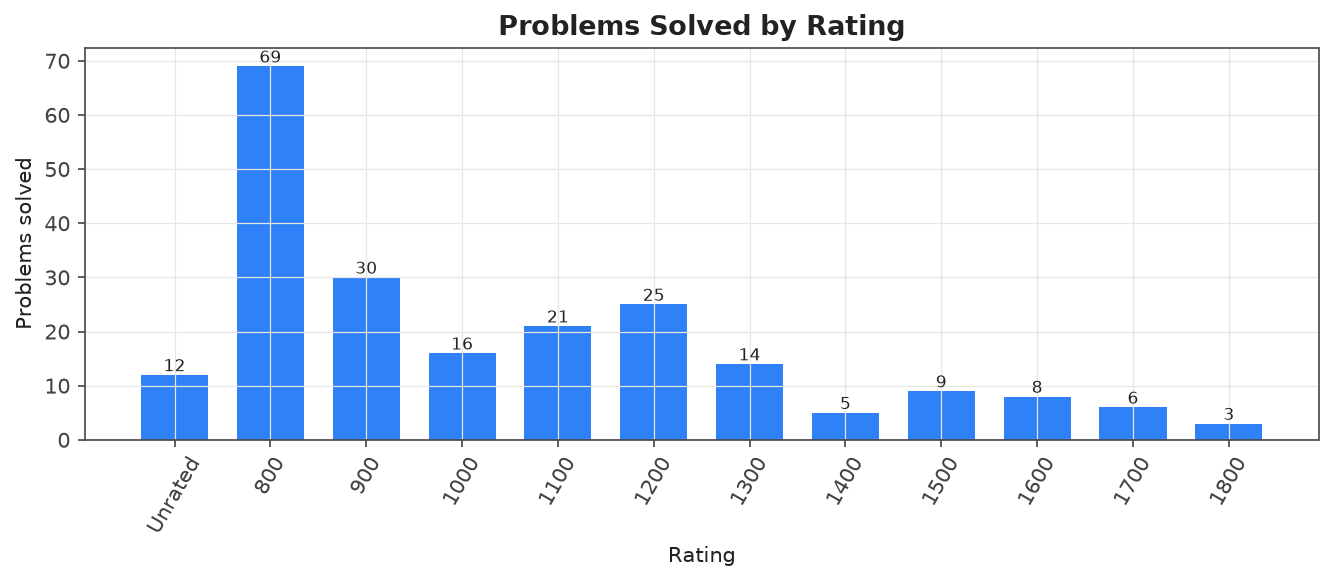
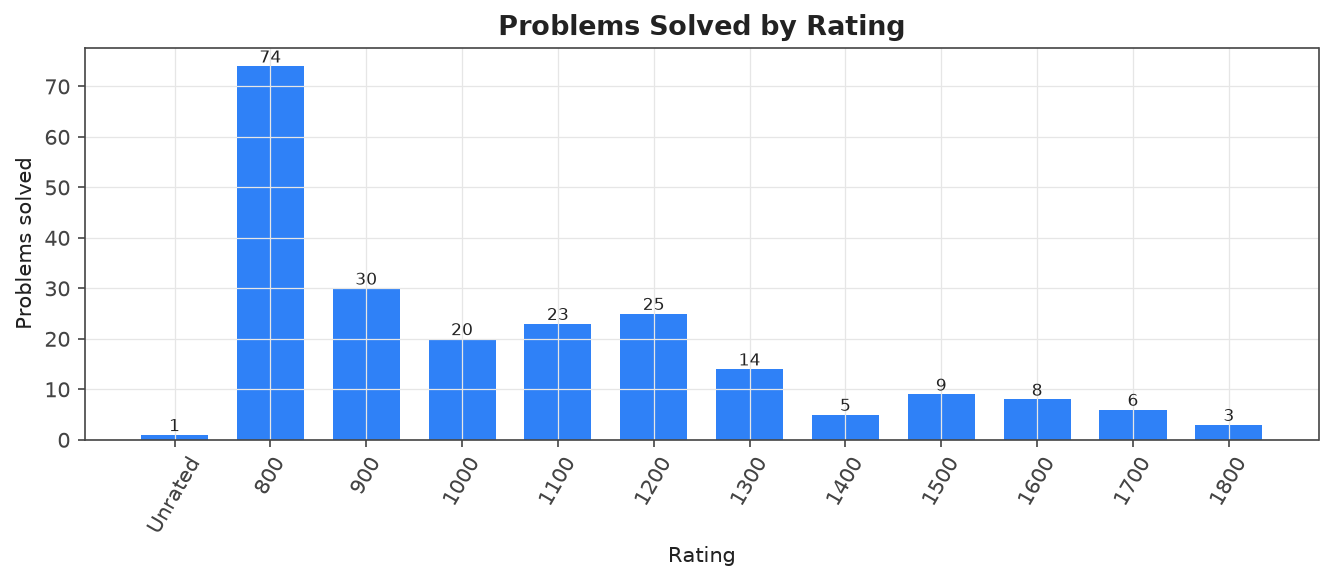
Sync: refresh analytics (rating/streak update, no new problems)

diff --git a/README.md b/README.md
@@ -37,10 +37,10 @@ Auto-generated archive of accepted Codeforces submissions for **[om_sharma_](htt
 
 | Rating | Count |
 |---|---|
-| 0800 | 69 |
+| 0800 | 74 |
 | 0900 | 30 |
-| 1000 | 16 |
-| 1100 | 21 |
+| 1000 | 20 |
+| 1100 | 23 |
 | 1200 | 25 |
 | 1300 | 14 |
 | 1400 | 5 |
@@ -48,7 +48,7 @@ Auto-generated archive of accepted Codeforces submissions for **[om_sharma_](htt
 | 1600 | 8 |
 | 1700 | 6 |
 | 1800 | 3 |
-| Unrated | 12 |
+| Unrated | 1 |
 
 ### By tag
 
@@ -88,17 +88,6 @@ Auto-generated archive of accepted Codeforces submissions for **[om_sharma_](htt
 
 | # | Problem | Rating | Tags | Code | Link |
 |---|---|---|---|---|---|
-| 2261A | [Hey, It's Me, Souvlakity](problems/games/Unrated_2261A-Hey-Its-Me-Souvlakity) | ? | `games`, `math` | — | [CF](https://codeforces.com/contest/2261/problem/A) |
-| 2261C | [I Know About a Million Things](problems/games/Unrated_2261C-I-Know-About-a-Million-Things) | ? | `games`, `math` | — | [CF](https://codeforces.com/contest/2261/problem/C) |
-| 2261B | [What's the Capital of France?](problems/bitmasks/Unrated_2261B-Whats-the-Capital-of-France) | ? | `bitmasks`, `greedy`, `math` | — | [CF](https://codeforces.com/contest/2261/problem/B) |
-| 2271A | [Robot Odd Moves](problems/constructive-algorithms/Unrated_2271A-Robot-Odd-Moves) | ? | `constructive algorithms`, `math` | — | [CF](https://codeforces.com/contest/2271/problem/A) |
-| 2271B | [MEX Game](problems/games/Unrated_2271B-MEX-Game) | ? | `games` | — | [CF](https://codeforces.com/contest/2271/problem/B) |
-| 2275B | [Did Not Go to Print](problems/data-structures/Unrated_2275B-Did-Not-Go-to-Print) | ? | `data structures`, `implementation` | — | [CF](https://codeforces.com/contest/2275/problem/B) |
-| 2275A | [In Search of Convenience](problems/geometry/Unrated_2275A-In-Search-of-Convenience) | ? | `geometry`, `implementation` | — | [CF](https://codeforces.com/contest/2275/problem/A) |
-| 2275C | [Unrequited Love](problems/brute-force/Unrated_2275C-Unrequited-Love) | ? | `brute force`, `data structures` | — | [CF](https://codeforces.com/contest/2275/problem/C) |
-| 2276A | [Perfect Sandwiches](problems/greedy/Unrated_2276A-Perfect-Sandwiches) | ? | `greedy`, `math` | — | [CF](https://codeforces.com/contest/2276/problem/A) |
-| 2276B | [Replace and Compress](problems/implementation/Unrated_2276B-Replace-and-Compress) | ? | `implementation`, `strings` | — | [CF](https://codeforces.com/contest/2276/problem/B) |
-| 2276C | [Subarrays](problems/math/Unrated_2276C-Subarrays) | ? | `math`, `number theory` | — | [CF](https://codeforces.com/contest/2276/problem/C) |
 | 105669I | [Partition](problems/untagged/Unrated_105669I-Partition) | ? |  | — | [CF](https://codeforces.com/contest/105669/problem/I) |
 | 4A | [Watermelon](problems/brute-force/0800_4A-Watermelon) | 800 | `brute force`, `math` | — | [CF](https://codeforces.com/contest/4/problem/A) |
 | 14A | [Letter](problems/implementation/0800_14A-Letter) | 800 | `implementation` | — | [CF](https://codeforces.com/contest/14/problem/A) |
@@ -166,9 +155,14 @@ Auto-generated archive of accepted Codeforces submissions for **[om_sharma_](htt
 | 2257B | [Gigantomachy](problems/math/0800_2257B-Gigantomachy) | 800 | `math` | — | [CF](https://codeforces.com/contest/2257/problem/B) |
 | 2258A | [Odd Eraser](problems/math/0800_2258A-Odd-Eraser) | 800 | `math` | — | [CF](https://codeforces.com/contest/2258/problem/A) |
 | 2260A | [Monocarp's Contest](problems/implementation/0800_2260A-Monocarps-Contest) | 800 | `implementation` | — | [CF](https://codeforces.com/contest/2260/problem/A) |
+| 2261A | [Hey, It's Me, Souvlakity](problems/games/0800_2261A-Hey-Its-Me-Souvlakity) | 800 | `games`, `math` | — | [CF](https://codeforces.com/contest/2261/problem/A) |
 | 2263A | [Min Max Game](problems/games/0800_2263A-Min-Max-Game) | 800 | `games` | — | [CF](https://codeforces.com/contest/2263/problem/A) |
 | 2267A | [Turn Into a Palindrome](problems/greedy/0800_2267A-Turn-Into-a-Palindrome) | 800 | `greedy`, `strings` | — | [CF](https://codeforces.com/contest/2267/problem/A) |
 | 2267B | [Fashionable Array](problems/brute-force/0800_2267B-Fashionable-Array) | 800 | `brute force`, `constructive algorithms`, `sortings` | — | [CF](https://codeforces.com/contest/2267/problem/B) |
+| 2271A | [Robot Odd Moves](problems/constructive-algorithms/0800_2271A-Robot-Odd-Moves) | 800 | `constructive algorithms`, `math` | — | [CF](https://codeforces.com/contest/2271/problem/A) |
+| 2275B | [Did Not Go to Print](problems/data-structures/0800_2275B-Did-Not-Go-to-Print) | 800 | `data structures`, `implementation` | — | [CF](https://codeforces.com/contest/2275/problem/B) |
+| 2275A | [In Search of Convenience](problems/geometry/0800_2275A-In-Search-of-Convenience) | 800 | `geometry`, `implementation` | — | [CF](https://codeforces.com/contest/2275/problem/A) |
+| 2276A | [Perfect Sandwiches](problems/greedy/0800_2276A-Perfect-Sandwiches) | 800 | `greedy`, `math` | — | [CF](https://codeforces.com/contest/2276/problem/A) |
 | 337A | [Puzzles](problems/greedy/0900_337A-Puzzles) | 900 | `greedy` | — | [CF](https://codeforces.com/contest/337/problem/A) |
 | 1374B | [Multiply by 2, divide by 6](problems/math/0900_1374B-Multiply-by-2-divide-by-6) | 900 | `math` | — | [CF](https://codeforces.com/contest/1374/problem/B) |
 | 1440B | [Sum of Medians](problems/greedy/0900_1440B-Sum-of-Medians) | 900 | `greedy`, `math` | — | [CF](https://codeforces.com/contest/1440/problem/B) |
@@ -215,6 +209,10 @@ Auto-generated archive of accepted Codeforces submissions for **[om_sharma_](htt
 | 2242B | [Predominant Frequency Division](problems/data-structures/1000_2242B-Predominant-Frequency-Division) | 1000 | `data structures`, `greedy`, `implementation`, `math` | — | [CF](https://codeforces.com/contest/2242/problem/B) |
 | 2254C1 | [Marenol (easy version)](problems/greedy/1000_2254C1-Marenol-easy-version) | 1000 | `greedy` | — | [CF](https://codeforces.com/contest/2254/problem/C1) |
 | 2256B | [Domino Tiles](problems/implementation/1000_2256B-Domino-Tiles) | 1000 | `implementation`, `math` | — | [CF](https://codeforces.com/contest/2256/problem/B) |
+| 2261C | [I Know About a Million Things](problems/games/1000_2261C-I-Know-About-a-Million-Things) | 1000 | `games`, `math` | — | [CF](https://codeforces.com/contest/2261/problem/C) |
+| 2271B | [MEX Game](problems/games/1000_2271B-MEX-Game) | 1000 | `games` | — | [CF](https://codeforces.com/contest/2271/problem/B) |
+| 2275C | [Unrequited Love](problems/brute-force/1000_2275C-Unrequited-Love) | 1000 | `brute force`, `data structures` | — | [CF](https://codeforces.com/contest/2275/problem/C) |
+| 2276B | [Replace and Compress](problems/implementation/1000_2276B-Replace-and-Compress) | 1000 | `implementation`, `strings` | — | [CF](https://codeforces.com/contest/2276/problem/B) |
 | 252A | [Little Xor](problems/brute-force/1100_252A-Little-Xor) | 1100 | `brute force`, `implementation` | — | [CF](https://codeforces.com/contest/252/problem/A) |
 | 919B | [Perfect Number](problems/binary-search/1100_919B-Perfect-Number) | 1100 | `binary search`, `brute force`, `dp`, `implementation`, `number theory` | — | [CF](https://codeforces.com/contest/919/problem/B) |
 | 1327A | [Sum of Odd Integers](problems/math/1100_1327A-Sum-of-Odd-Integers) | 1100 | `math` | — | [CF](https://codeforces.com/contest/1327/problem/A) |
@@ -236,6 +234,8 @@ Auto-generated archive of accepted Codeforces submissions for **[om_sharma_](htt
 | 2247C | [Inversion of a Subsequence](problems/greedy/1100_2247C-Inversion-of-a-Subsequence) | 1100 | `greedy`, `math` | — | [CF](https://codeforces.com/contest/2247/problem/C) |
 | 2252B | [Always Changing](problems/dp/1100_2252B-Always-Changing) | 1100 | `dp`, `greedy`, `math`, `strings` | — | [CF](https://codeforces.com/contest/2252/problem/B) |
 | 2253B | [Hypercarp and the Control Panel](problems/brute-force/1100_2253B-Hypercarp-and-the-Control-Panel) | 1100 | `brute force`, `data structures`, `two pointers` | — | [CF](https://codeforces.com/contest/2253/problem/B) |
+| 2261B | [What's the Capital of France?](problems/bitmasks/1100_2261B-Whats-the-Capital-of-France) | 1100 | `bitmasks`, `greedy`, `math` | — | [CF](https://codeforces.com/contest/2261/problem/B) |
+| 2276C | [Subarrays](problems/math/1100_2276C-Subarrays) | 1100 | `math`, `number theory` | — | [CF](https://codeforces.com/contest/2276/problem/C) |
 | 4B | [Before an Exam](problems/constructive-algorithms/1200_4B-Before-an-Exam) | 1200 | `constructive algorithms`, `greedy` | — | [CF](https://codeforces.com/contest/4/problem/B) |
 | 101A | [Homework](problems/greedy/1200_101A-Homework) | 1200 | `greedy` | — | [CF](https://codeforces.com/contest/101/problem/A) |
 | 961B | [Lecture Sleep](problems/data-structures/1200_961B-Lecture-Sleep) | 1200 | `data structures`, `dp`, `implementation`, `two pointers` | — | [CF](https://codeforces.com/contest/961/problem/B) |
